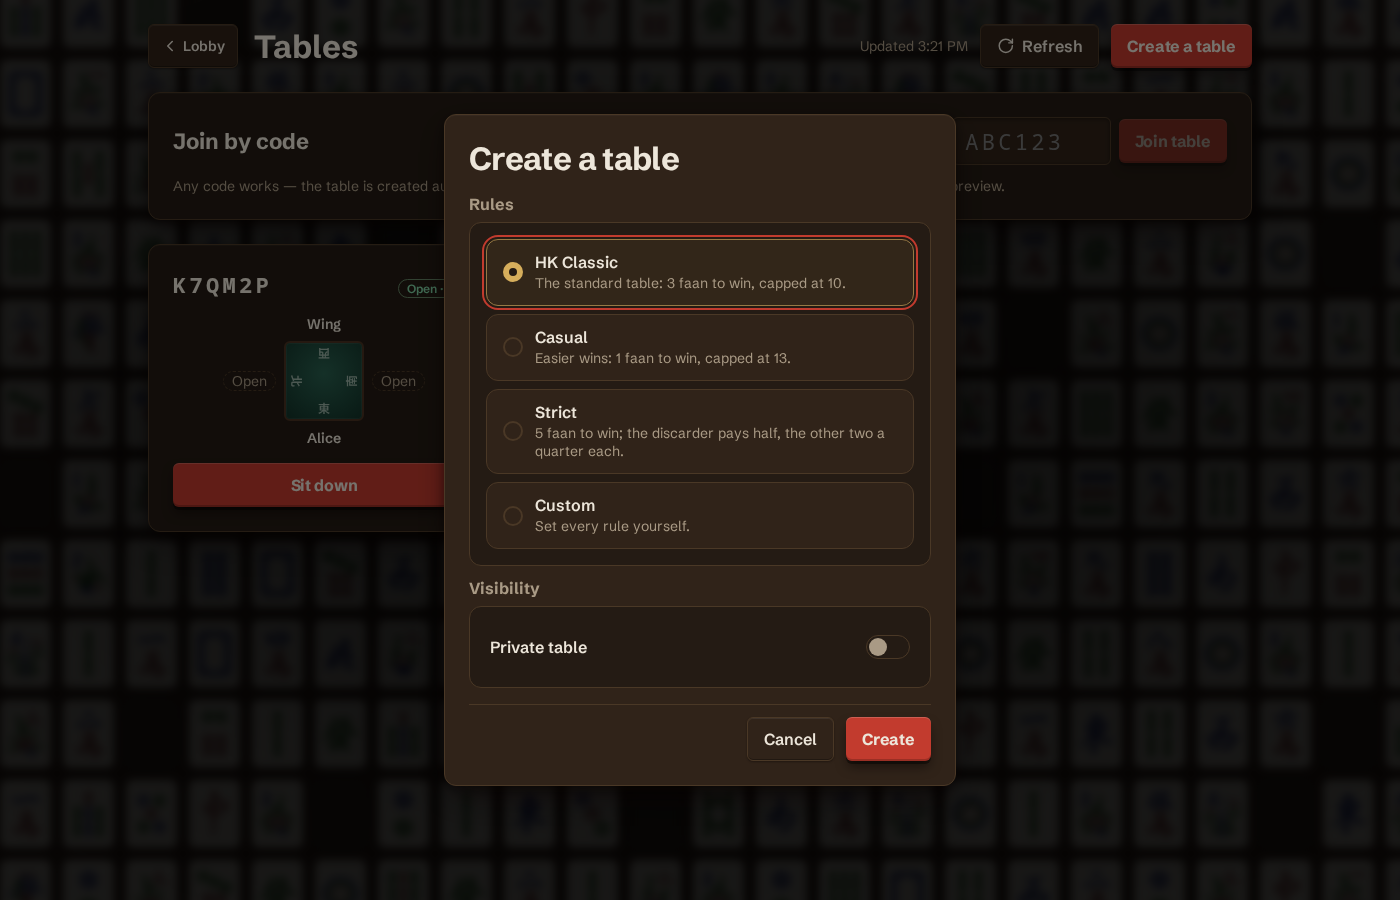
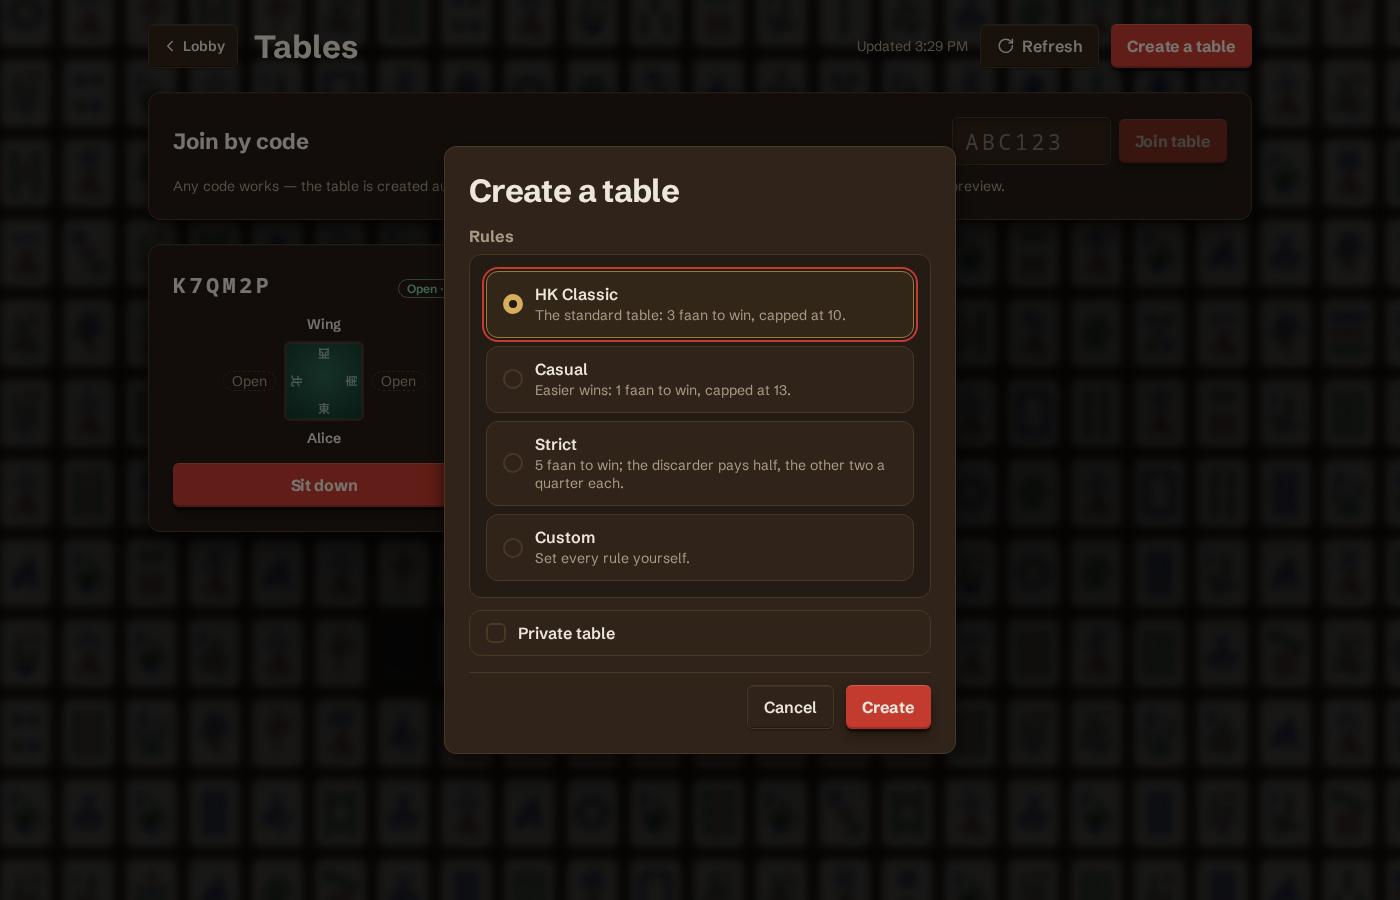
refactor(web): private table as a checkbox option row, no legend

Changed region(s): [[0.3071, 0.1244, 0.7064, 0.7467], [0.3071, 0.7156, 0.7064, 0.8711], [0.6143, 0.0311, 0.6757, 0.0622]]

diff --git a/web/src/lib/ui/CreateTableDialog.svelte b/web/src/lib/ui/CreateTableDialog.svelte
@@ -18,7 +18,6 @@
 	import PanelHeader from './PanelHeader.svelte';
 	import FormGroup from './FormGroup.svelte';
 	import OptionRow from './OptionRow.svelte';
-	import SwitchRow from './SwitchRow.svelte';
 	import SegmentedControl from './SegmentedControl.svelte';
 	import RulesEditor, { type OverrideRow, type RulesTab } from './RulesEditor.svelte';
 	import { loadCreateTableSetup, saveCreateTableSetup } from './settings-storage';
@@ -171,13 +170,12 @@
 						><SlidersHorizontal size={16} />{m.createTableDialog_editCustomButton()}</button
 					>
 				{/if}
-				<FormGroup legend={m.createTableDialog_visibilityLegend()}>
-					<SwitchRow
-						label={m.createTableDialog_privateLabel()}
-						checked={isPrivate}
-						onChange={(checked) => (isPrivate = checked)}
-					/>
-				</FormGroup>
+				<OptionRow
+					type="checkbox"
+					label={m.createTableDialog_privateLabel()}
+					checked={isPrivate}
+					onChange={(checked) => (isPrivate = checked)}
+				/>
 			</div>
 		{:else}
 			<header class="custom-header">

diff --git a/web/src/routes/page.e2e.ts b/web/src/routes/page.e2e.ts
@@ -89,13 +89,13 @@ async function captureCreateBody(page: Page): Promise<{ body: Record<string, unk
 	return sent;
 }
 
-test('create table private switch sends private: true', async ({ page }) => {
+test('create table private option sends private: true', async ({ page }) => {
 	const sent = await captureCreateBody(page);
 	await page.goto('/tables');
 	await page.waitForLoadState('networkidle');
 	await page.getByTestId('tables-header-create-table').click();
 	const dialog = page.getByTestId('create-table-dialog');
-	const toggle = dialog.getByRole('switch', { name: /Private table/ });
+	const toggle = dialog.getByRole('checkbox', { name: 'Private table' });
 	await expect(toggle).not.toBeChecked();
 	await toggle.click({ force: true });
 	await dialog.getByTestId('create-table-submit').click();

diff --git a/web/src/lib/ui/CreateTableDialog.spec.ts b/web/src/lib/ui/CreateTableDialog.spec.ts
@@ -42,9 +42,9 @@ describe('CreateTableDialog', () => {
 		expect(body).toContain('Custom');
 	});
 
-	it('offers a private-table switch, off by default', () => {
+	it('offers a private-table option, off by default', () => {
 		const { body } = render(CreateTableDialog, { props: { onCreated: noop, onCancel: noop } });
 		expect(body).toContain('Private table');
-		expect(body).toMatch(/role="switch"(?![^>]*checked)[^>]*>/);
+		expect(body).toMatch(/type="checkbox"(?![^>]*checked)[^>]*>/);
 	});
 });

diff --git a/docs/frontend.md b/docs/frontend.md
@@ -825,7 +825,7 @@ views in one dialog:
 - The custom view has a fixed height (`min(44rem, 100dvh - 2rem)`) so switching tabs never resizes
   it; Cancel/Create stay pinned below the scroll region.
 
-- **Private table** — a "Visibility" switch under the presets (presets view only, applies to
+- **Private table** — a checkbox `OptionRow` under the presets (presets view only, applies to
   custom rules too) posts `private: true`, which keeps the table off `/tables`; invitees use the
   link or join-by-code. Off by default, remembered with the rest of the setup.
 
